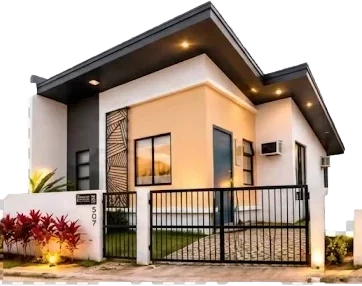
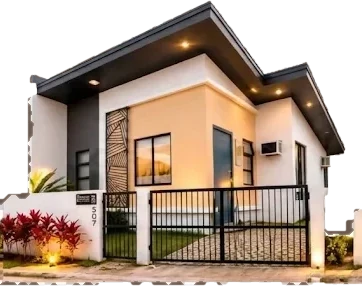
House Models: cut-outs for the five premium models
Claude-Session: https://claude.ai/code/session_01MkTV9UDit9hhRyBLPYsYJ9

diff --git a/lib/house-models.ts b/lib/house-models.ts
@@ -29,9 +29,8 @@ export interface House {
   images: string[];
 }
 
-// Cut-outs made by design/house-models/make-cutouts.py. Premium models still use a placeholder render.
+// Cut-outs made by design/house-models/make-cutouts.py.
 const M = (name: string) => `/assets/img/models/${name}.webp`;
-const P = (n: number) => `/assets/img/hero/model-${n}.webp`;
 
 // The first model of each type is the one shown when its type is chosen.
 export const HOUSES: House[] = [
@@ -42,11 +41,11 @@ export const HOUSES: House[] = [
   { name: 'Brenna', type: 'bungalow', status: 'available', unit: 'BRENNA', floor: 45, lot: 88, bedrooms: 2, bathrooms: 1, carport: 1, note: 'One-storey bungalow, available only in selected projects.', images: [M('brenna')] },
   { name: 'Unna', type: 'single', status: 'available', unit: 'UNNA', floor: 54, lot: 88, bedrooms: 3, bathrooms: 2, carport: 1, images: [M('unna')] },
   { name: 'Dua', type: 'single', status: 'available', unit: 'DUA', floor: 48, lot: 70, bedrooms: 2, bathrooms: 2, carport: 1, note: 'Standalone house with a single shared firewall.', images: [M('dua')] },
-  { name: 'Corin 120', type: 'premium', status: 'available', unit: 'CORIN', floor: 120, lot: 132, bedrooms: 3, bathrooms: 3, carport: 2, images: [P(6)] },
-  { name: 'Cartland 54', type: 'premium', status: 'available', unit: 'CARTLAND', floor: 54, lot: 88, bedrooms: 3, bathrooms: 2, carport: 1, images: [P(5)] },
-  { name: 'Charles 70', type: 'premium', status: 'available', unit: 'CHARLES', floor: 70, lot: 99, bedrooms: 3, bathrooms: 2, carport: 2, images: [P(5)] },
-  { name: 'Christie 90', type: 'premium', status: 'available', unit: 'CHRISTIE', floor: 90, lot: 110, bedrooms: 3, bathrooms: 3, carport: 2, images: [P(5)] },
-  { name: 'Charles 150', type: 'premium', status: 'soldout', floor: 150, lot: 99, bedrooms: 3, bathrooms: 3, carport: 2, note: 'Expanded version of Charles 70 (suggested expansion plan).', images: [P(5)] },
+  { name: 'Corin 120', type: 'premium', status: 'available', unit: 'CORIN', floor: 120, lot: 132, bedrooms: 3, bathrooms: 3, carport: 2, images: [M('corin-120')] },
+  { name: 'Cartland 54', type: 'premium', status: 'available', unit: 'CARTLAND', floor: 54, lot: 88, bedrooms: 3, bathrooms: 2, carport: 1, images: [M('cartland-54')] },
+  { name: 'Charles 70', type: 'premium', status: 'available', unit: 'CHARLES', floor: 70, lot: 99, bedrooms: 3, bathrooms: 2, carport: 2, images: [M('charles-70')] },
+  { name: 'Christie 90', type: 'premium', status: 'available', unit: 'CHRISTIE', floor: 90, lot: 110, bedrooms: 3, bathrooms: 3, carport: 2, images: [M('christie-90')] },
+  { name: 'Charles 150', type: 'premium', status: 'soldout', floor: 150, lot: 99, bedrooms: 3, bathrooms: 3, carport: 2, note: 'Expanded version of Charles 70 (suggested expansion plan).', images: [M('charles-150')] },
 ];
 
 export const HOUSE_TYPES: { id: HouseType; label: string }[] = [

diff --git a/design/house-models/make-cutouts.py b/design/house-models/make-cutouts.py
@@ -38,6 +38,27 @@ def checker_masks(rgb):
     return core, light
 
 
+# Open carports show the checkerboard through the house. Where it is too small or too broken for
+# the automatic pass, these boxes (x0, y0, x1, y1 on the finished cut-out) are painted as shade.
+PATCHES = {
+    "cartland-54": [(78, 179, 125, 218)],
+    "charles-150": [(140, 244, 181, 281)],
+}
+
+
+def patch(im, boxes):
+    arr = np.asarray(im).copy()
+    for x0, y0, x1, y1 in boxes:
+        box = np.zeros(arr.shape[:2], bool)
+        box[y0:y1, x0:x1] = True
+        ring = ndi.binary_dilation(box, iterations=6) & ~box & (arr[..., 3] > 200)
+        shade = (np.median(arr[ring][:, :3], axis=0) * 0.5).astype(np.uint8)
+        soft = cv2.GaussianBlur(box.astype(np.float32), (0, 0), 1.5)[..., None]
+        arr[..., :3] = (arr[..., :3] * (1 - soft) + shade * soft).astype(np.uint8)
+        arr[..., 3] = np.maximum(arr[..., 3], (soft[..., 0] * 255).astype(np.uint8))
+    return Image.fromarray(arr, "RGBA")
+
+
 def cut(path, out_path=None, crop=None):
     img = Image.open(path).convert("RGB")
     if crop:
@@ -71,6 +92,28 @@ def cut(path, out_path=None, crop=None):
         keep = np.isin(lab, [i + 1 for i, s in enumerate(sizes) if s > 0.01 * fg.sum()])
         fg = keep
     fg = ndi.binary_fill_holes(fg)
+
+    # Checkerboard seen through an open carport (or between walls) is still checkerboard: clear any
+    # pocket of it that is big enough to be more than a window frame, so it shows the page behind.
+    gray16 = rgb.astype(np.int16).mean(axis=2)
+    sat16 = rgb.max(axis=2).astype(np.int16) - rgb.min(axis=2)
+    corner = gray16[:60, :60]
+    tone = float(np.median(corner[corner < 240]))
+    wf = ndi.uniform_filter(((sat16 < 16) & (gray16 >= 243)).astype(np.float32), 7)
+    gf = ndi.uniform_filter(((sat16 < 16) & (np.abs(gray16 - tone) <= 14)).astype(np.float32), 7)
+    pocket = (wf > 0.2) & (gf > 0.2) & (wf + gf > 0.85)
+    plab, pn = ndi.label(pocket)
+    if pn:
+        psizes = ndi.sum(pocket, plab, range(1, pn + 1))
+        big = np.isin(plab, [i + 1 for i, sz in enumerate(psizes) if sz >= 25])
+        pocket_px = ndi.binary_dilation(big, iterations=4)
+        # Paint the pocket with the dark warm tone around it, so a carport reads as a shaded interior.
+        ring = ndi.binary_dilation(pocket_px, iterations=5) & ~pocket_px & fg
+        if ring.any():
+            tone_rgb = np.median(rgb[ring], axis=0) * 0.55
+            rgb = rgb.copy()
+            rgb[pocket_px] = tone_rgb.astype(np.uint8)
+            rgb = cv2.GaussianBlur(rgb, (0, 0), 1.2) * 0 + np.where(pocket_px[..., None], cv2.GaussianBlur(rgb, (0, 0), 1.2), rgb)
     alpha = cv2.GaussianBlur(fg.astype(np.float32), (0, 0), 0.8)
     alpha = np.clip((alpha - 0.15) / 0.7, 0, 1)
 
@@ -79,6 +122,8 @@ def cut(path, out_path=None, crop=None):
     box = im.getchannel("A").point(lambda v: 255 if v > 8 else 0).getbbox()
     if box:
         im = im.crop(box)
+    if out_path and out_path.stem in PATCHES:
+        im = patch(im, PATCHES[out_path.stem])
     if out_path:
         out_path.parent.mkdir(parents=True, exist_ok=True)
         im.save(out_path, "WEBP", quality=88, method=6)
@@ -95,4 +140,12 @@ if __name__ == "__main__":
     w, h = three
     for name, box in {"unna": (0, 0, 358, h), "brenna": (358, 0, 720, h), "dua": (720, 0, w, h)}.items():
         cut(SRC / "unna-brenna-dua.webp", OUT / f"{name}.webp", crop=box)
+    # Premium: two more pictures with several houses each.
+    for src, parts in {
+        "cartland-charles-christie.webp": {"cartland-54": (0, 366), "charles-70": (366, 666), "christie-90": (666, None)},
+        "charles150-corin.webp": {"charles-150": (0, 524), "corin-120": (524, None)},
+    }.items():
+        w, h = Image.open(SRC / src).size
+        for name, (x0, x1) in parts.items():
+            cut(SRC / src, OUT / f"{name}.webp", crop=(x0, 0, x1 or w, h))
     print("done:", sorted(p.name for p in OUT.glob("*.webp")))
